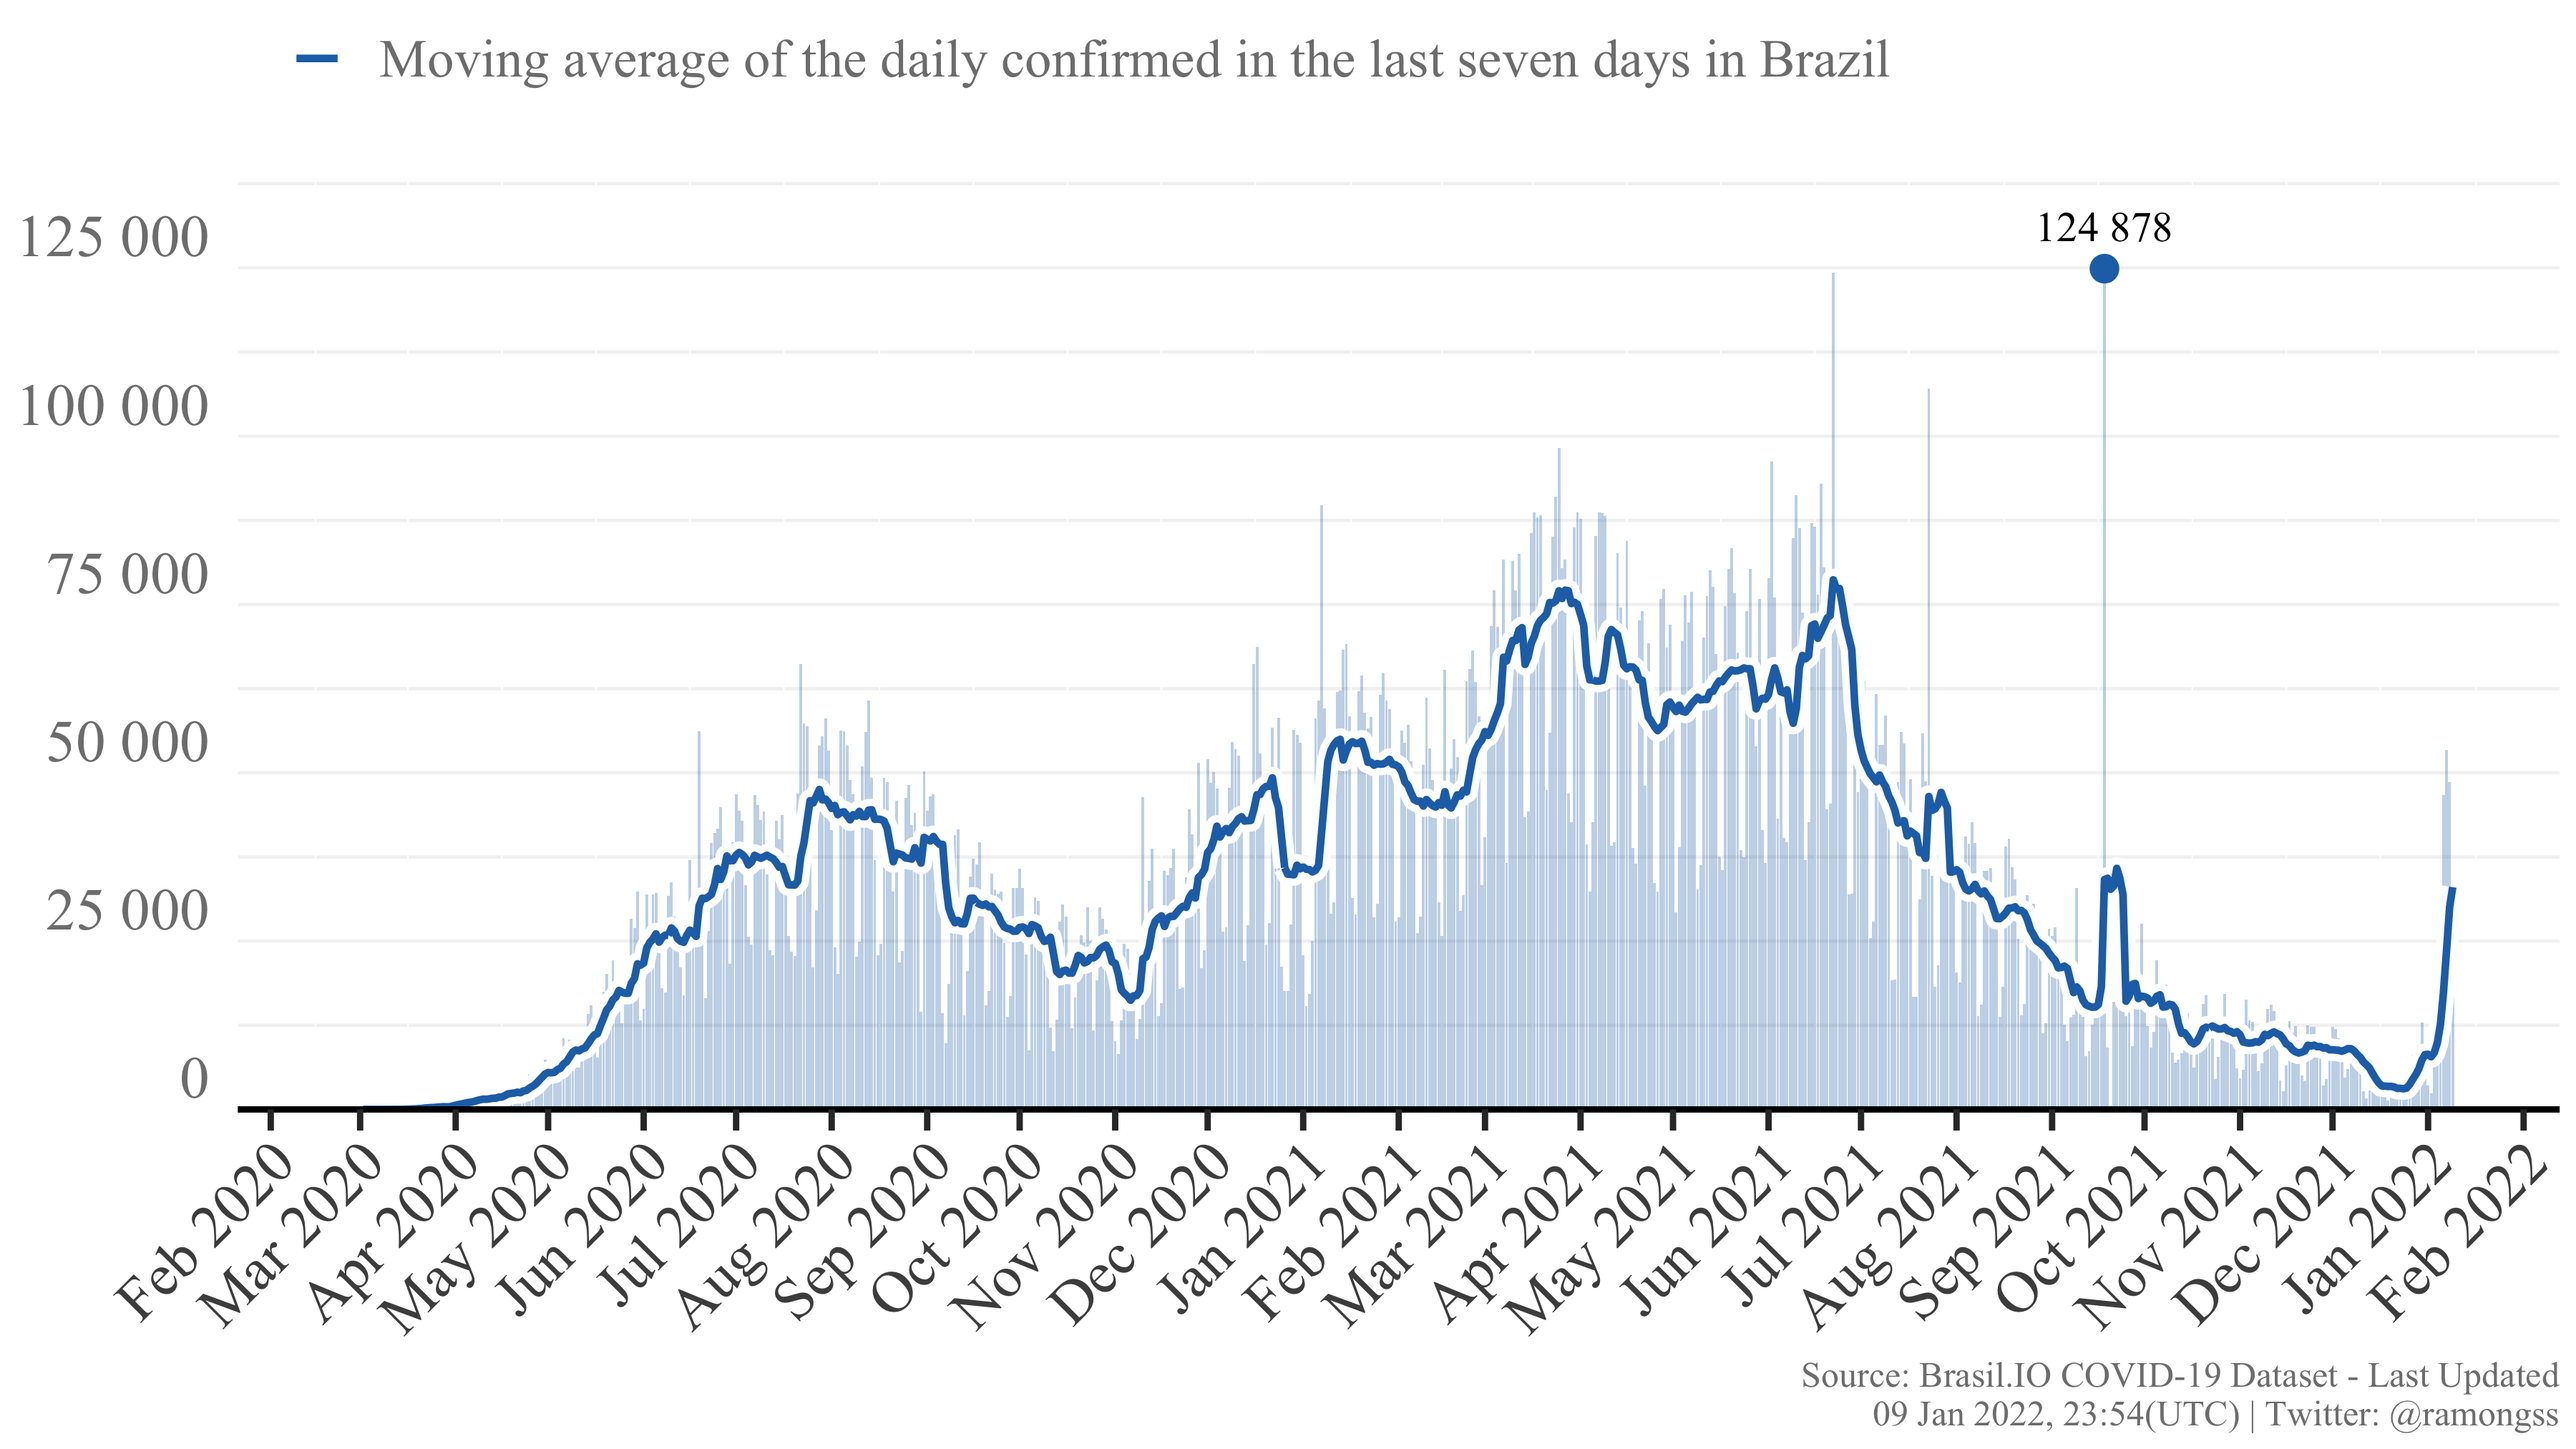
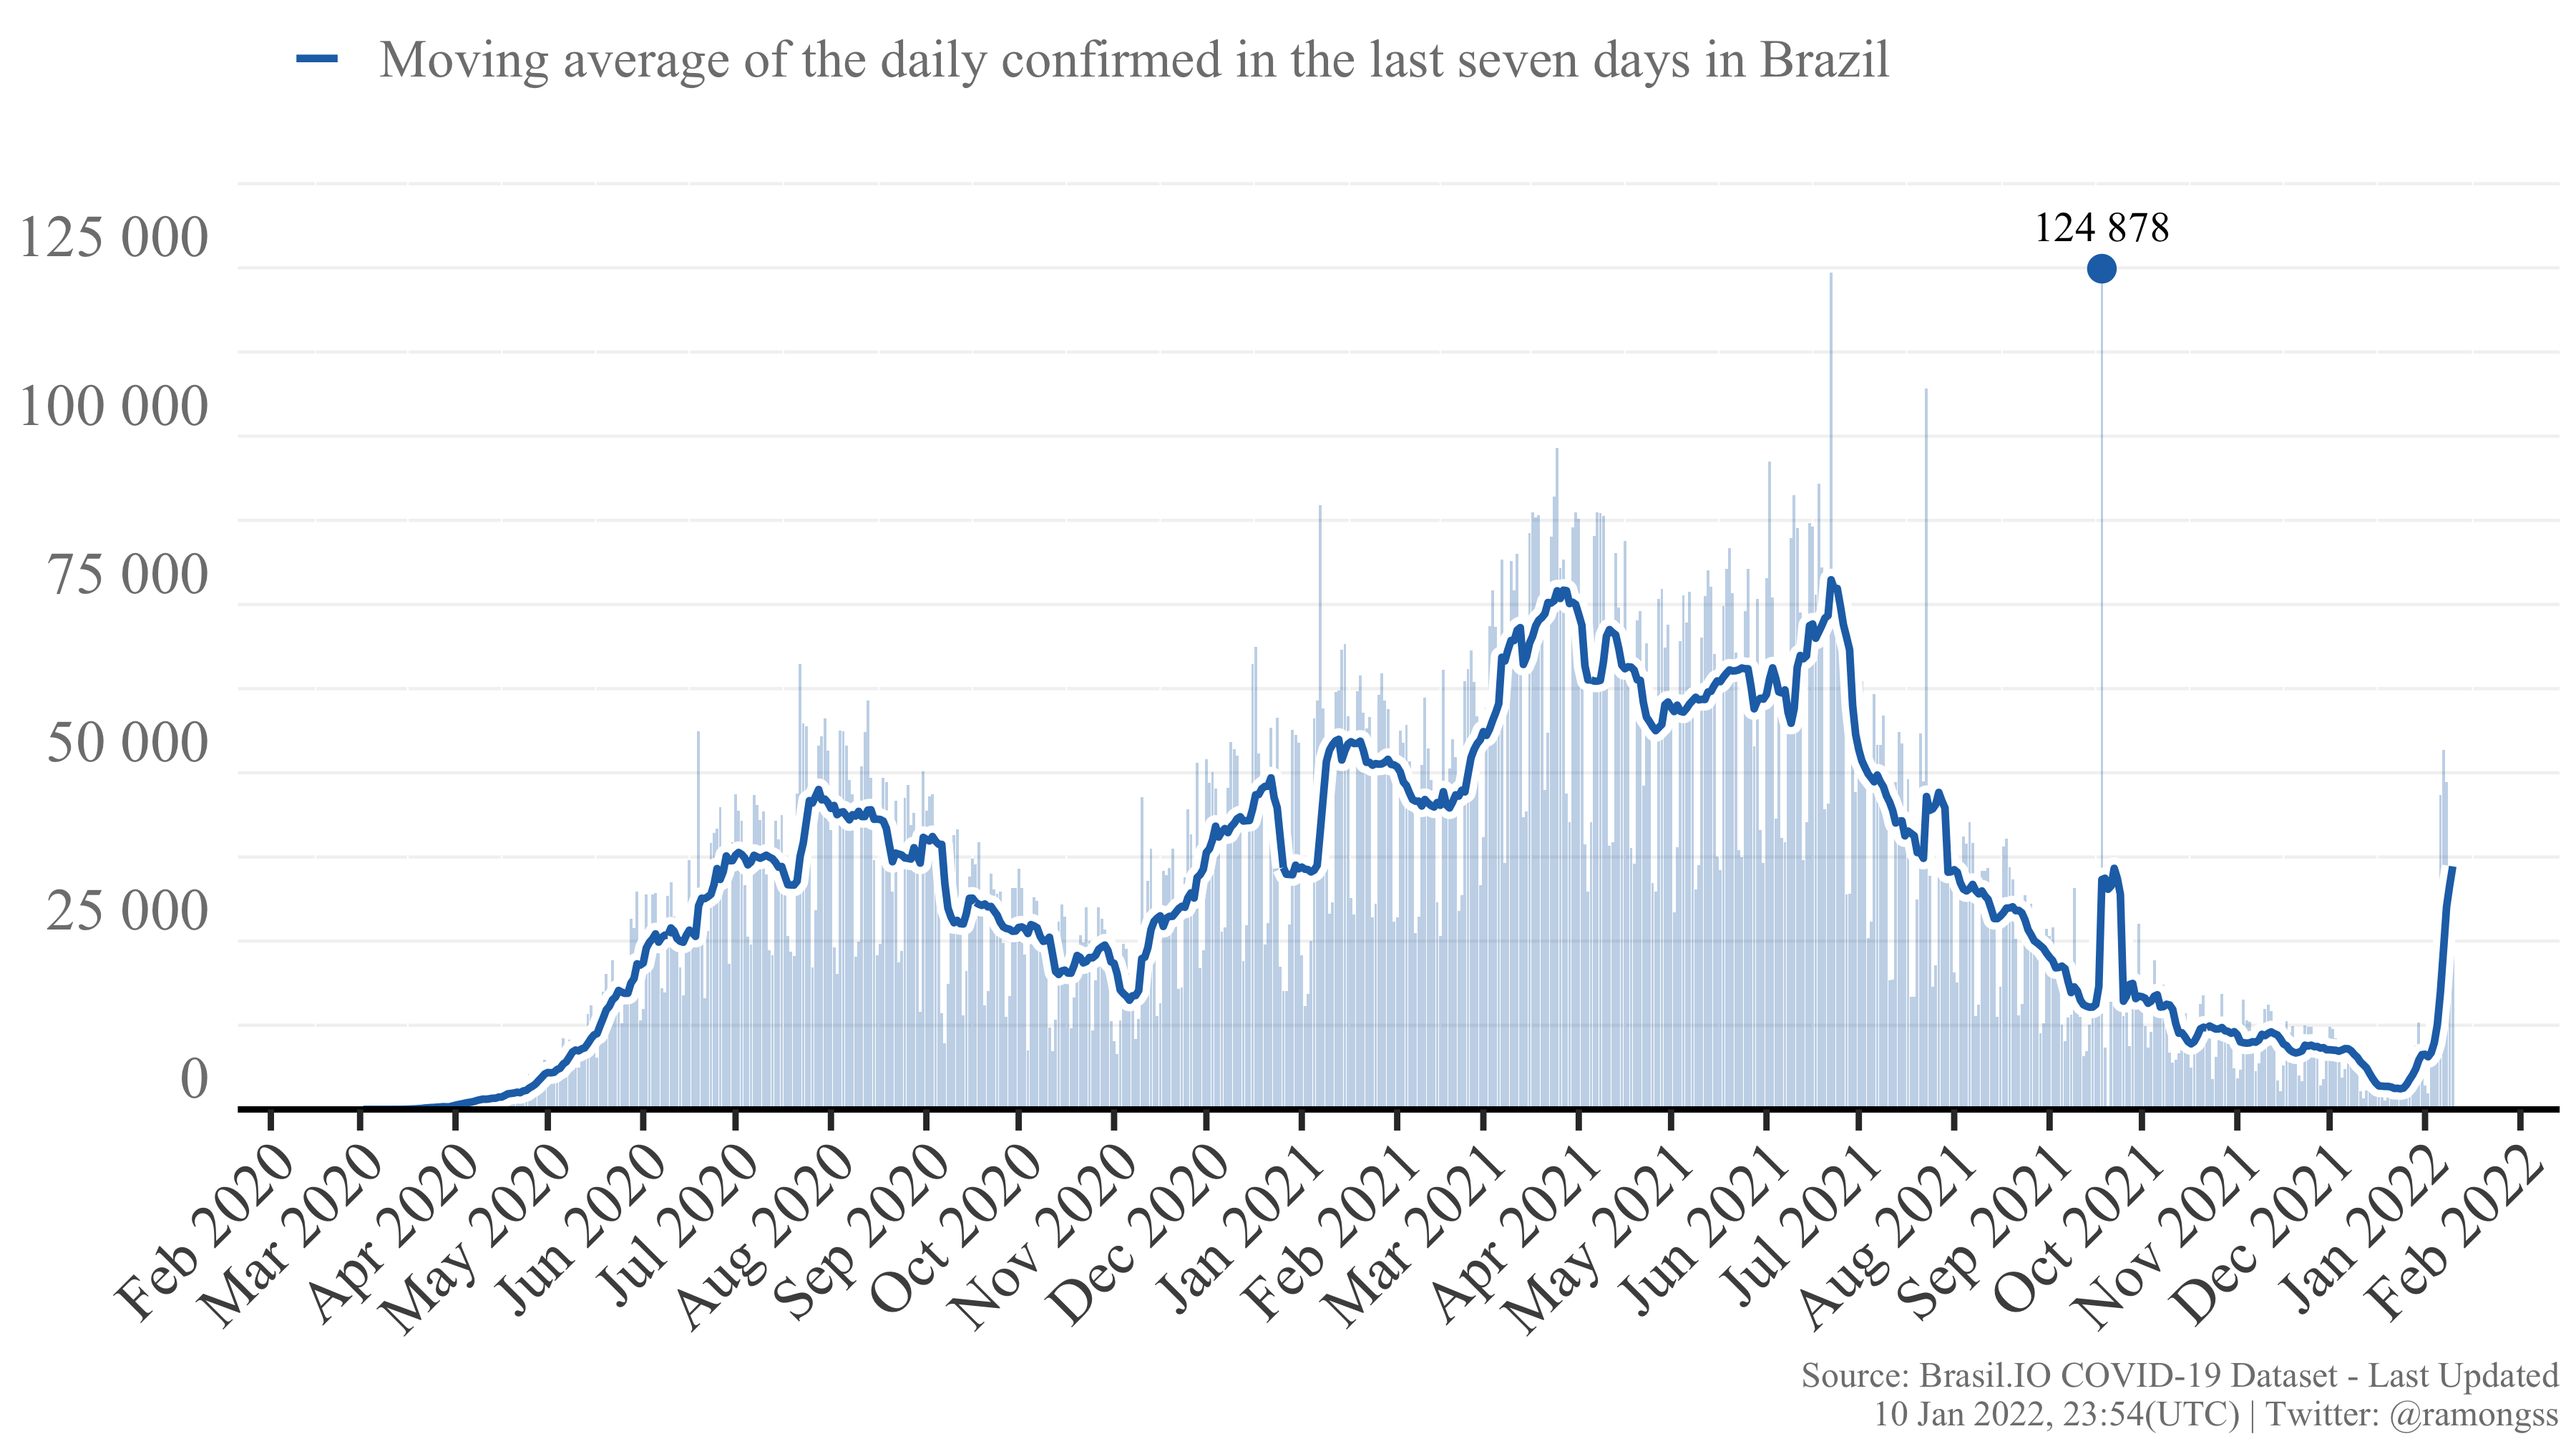
Re-build README.Rmd

diff --git a/README.md b/README.md
@@ -27,8 +27,8 @@ download_brasilio_table <- function(dataset = "covid19", table_name){
 
 ## COVID-19 Confirmed cases
 
-Currently, Brazil has a total of **22,529,183** confirmed cases at **09
-Jan, 2022**, with **22,756** new confirmed cases. The daily maximum
+Currently, Brazil has a total of **22,563,095** confirmed cases at **10
+Jan, 2022**, with **32,072** new confirmed cases. The daily maximum
 incidence was **124,878** confirmed cases at **18 Sep, 2021**. Here
 follows the Figure showing the confirmed case incidence as the bars, and
 the line as the moving average of the last 7 days.
@@ -37,11 +37,11 @@ the line as the moving average of the last 7 days.
 
 ## COVID-19 Deaths
 
-Currently, Brazil has a total of **620,251** deaths at **09 Jan, 2022**,
-with **52** new deaths. The daily maximum deaths incidence was **4,148**
-deaths at **08 Apr, 2021**. Here follows the Figure showing the deaths
-incidence as the bars, and the line as the moving average of the last 7
-days.
+Currently, Brazil has a total of **620,366** deaths at **10 Jan, 2022**,
+with **112** new deaths. The daily maximum deaths incidence was
+**4,148** deaths at **08 Apr, 2021**. Here follows the Figure showing
+the deaths incidence as the bars, and the line as the moving average of
+the last 7 days.
 
 ![COVID-19 Deaths](figures/deaths.png)
 
@@ -49,4 +49,4 @@ days.
 
 This page is daily updated automatically using Github Actions.
 
-*Last update: 09 Jan 2022, 23:54 (UTC).*
+*Last update: 10 Jan 2022, 23:54 (UTC).*
